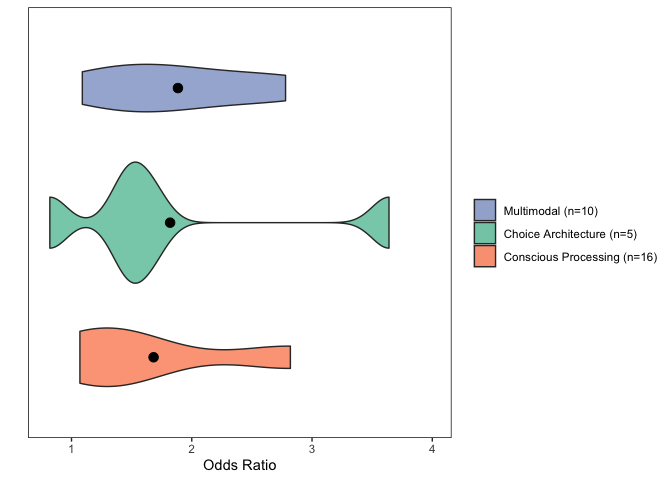
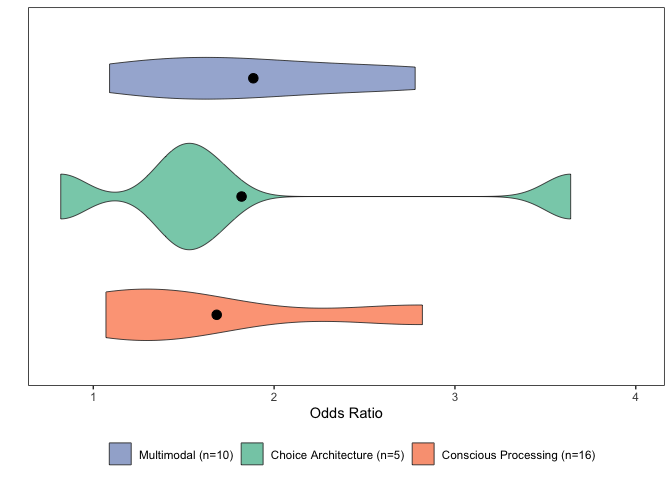
adjusted point sizes on forest plot

diff --git a/markdowns/visuals.md b/markdowns/visuals.md
@@ -121,7 +121,7 @@ in meat consumption.
 ``` r
 ggplot(fixed.effect,aes(x=effect.mag,y=study.title,color=approach)) + 
   geom_errorbar(aes(xmin=lower.ci,xmax=higher.ci),color="black",width=.2,size=.3) +
-  geom_point(alpha=.8,size=3) + 
+  geom_point(alpha=.8,size=4.2) + 
   xlab("Estimated Effect Size") + 
   ylab(" ") + 
   scale_x_continuous(breaks=c(0,2,4,6,8),limits=c(0,8)) +
@@ -137,7 +137,7 @@ ggplot(fixed.effect,aes(x=effect.mag,y=study.title,color=approach)) +
 
 ``` r
 ggplot(fixed.effect,aes(x=effect.mag,y=approach,fill=approach)) +
-  geom_violin(adjust=1.2,alpha=0.8) + 
+  geom_violin(adjust=1.2,alpha=0.8,size=.3) + 
   stat_summary(fun="mean",geom="point",shape=21,fill="black",size=3) +
   scale_y_discrete(limits=c("Conscious Processing","Choice Architecture","Multimodal")) +
   scale_fill_brewer(palette="Set2",breaks=c("Multimodal","Choice Architecture","Conscious Processing"),labels=c("Multimodal (n=10)","Choice Architecture (n=5)","Conscious Processing (n=16)")) +
@@ -145,7 +145,7 @@ ggplot(fixed.effect,aes(x=effect.mag,y=approach,fill=approach)) +
   ylab(" ") +
   labs(fill=" ") +
   coord_cartesian(xlim=c(.8,4)) +
-  theme(panel.border=element_rect(fill=NA),panel.background=element_blank(),axis.ticks.y=element_blank(),axis.text.y=element_blank(),panel.grid.minor=element_blank())
+  theme(legend.position="bottom",panel.border=element_rect(fill=NA),panel.background=element_blank(),axis.ticks.y=element_blank(),axis.text.y=element_blank(),panel.grid.minor=element_blank())
 ```
 
 ![](visuals_files/figure-gfm/unnamed-chunk-8-1.png)<!-- -->
